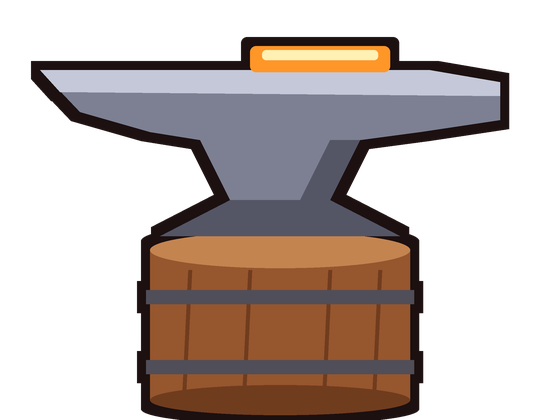
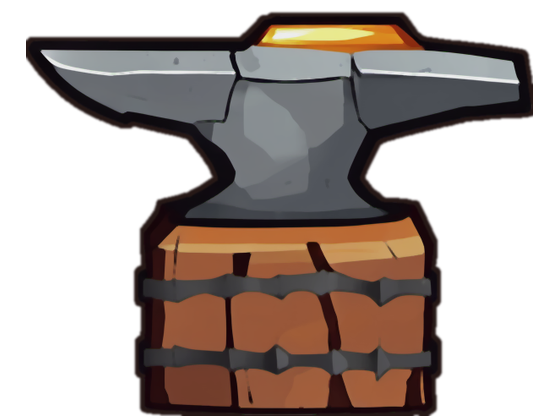
Enclume et marteau redessinés au rendu Craftpix (img2img depuis les anciens dessins)

diff --git a/Tools/make_anvil_ai.py b/Tools/make_anvil_ai.py
@@ -1,0 +1,76 @@
+# Enclume et marteau de la forge dans le style des persos Craftpix (ComfyUI + SDXL, même rendu que make_creatures.py).
+# Variantes dans _dl/anvil_raw ; --pick N et --hpick N choisissent celles gardées -> Resources/ForgeUI/Forge/anvil.png / hammer.png
+# (mêmes toiles que make_forge_flat.py : enclume 560x420, dessus de la table ~70 px du haut, pied en bas ; marteau 360x170, tête à gauche).
+import os, sys, importlib.util
+from PIL import Image
+
+HERE = os.path.dirname(os.path.abspath(__file__))
+spec = importlib.util.spec_from_file_location("mc", os.path.join(HERE, "make_creatures.py"))
+mc = importlib.util.module_from_spec(spec); spec.loader.exec_module(mc)
+RAW = os.path.join(HERE, "..", "..", "_dl", "anvil_raw")
+DENOISE = (0.72, 0.82)
+OUT = os.path.join(HERE, "..", "Assets", "Resources", "ForgeUI", "Forge")
+
+ANVIL = ("game asset of a big chunky blacksmith anvil, side view, horn pointing left, dark iron with a glowing hot orange ingot on top, "
+         "sitting on a wooden stump with iron bands, 2d mobile rpg like craftpix, thick dark outline, matte soft shading, "
+         "muted colors, simple shapes, centered, isolated on plain white background")
+HAMMER = ("game asset of a blacksmith hammer lying horizontal, heavy iron head on the left, wooden handle to the right, side view, "
+          "2d mobile rpg like craftpix, thick dark outline, matte soft shading, muted colors, simple shapes, isolated on plain white background")
+
+def gen(prompt, name, seed):
+    pid = mc.post("/prompt", {"prompt": mc.workflow(prompt, seed, "forge_" + name)})["prompt_id"]
+    while True:
+        h = mc.get("/history/" + pid)
+        if pid in h and h[pid].get("outputs"):
+            img = h[pid]["outputs"]["9"]["images"][0]
+            return os.path.join(mc.COMFY_OUT, img.get("subfolder", ""), img["filename"])
+        mc.time.sleep(1)
+
+def fit(im, W, H, margin_bottom=4):
+    bb = im.getbbox(); im = im.crop(bb)
+    k = min((W - 20) / im.width, (H - margin_bottom - 10) / im.height)
+    im = im.resize((int(im.width * k), int(im.height * k)), Image.LANCZOS)
+    out = Image.new("RGBA", (W, H), (0, 0, 0, 0))
+    out.alpha_composite(im, ((W - im.width) // 2, H - margin_bottom - im.height))
+    return out
+
+if __name__ == "__main__":
+    a = sys.argv[1:]
+    os.makedirs(RAW, exist_ok=True)
+    if "--pick" in a or "--hpick" in a:
+        if "--pick" in a:
+            fit(Image.open(os.path.join(RAW, a[a.index("--pick") + 1] + ".png")), 560, 420).save(os.path.join(OUT, "anvil.png"))
+        if "--hpick" in a:
+            fit(Image.open(os.path.join(RAW, a[a.index("--hpick") + 1] + ".png")), 360, 170, 3).save(os.path.join(OUT, "hammer.png"))
+        sys.exit(0)
+    if "--i2i" in a:
+        # img2img depuis les dessins de make_forge_flat.py (forme gardée, rendu Craftpix)
+        src = {"anvil": os.path.join(RAW, "src_anvil.png"), "hammer": os.path.join(RAW, "src_hammer.png")}
+        for kind, png in (("anvil", "anvil.png"), ("hammer", "hammer.png")):
+            if not os.path.exists(src[kind]):
+                Image.open(os.path.join(OUT, png)).save(src[kind])
+            im = Image.open(src[kind]).convert("RGBA")
+            bg = Image.new("RGBA", (1024, 1024), (255, 255, 255, 255))
+            k = 900 / max(im.size); im2 = im.resize((int(im.width * k), int(im.height * k)), Image.LANCZOS)
+            bg.alpha_composite(im2, ((1024 - im2.width) // 2, (1024 - im2.height) // 2))
+            fn = "forge_%s_src.png" % kind
+            bg.convert("RGB").save(os.path.join(mc.COMFY_IN, fn))
+            for v in range(4):
+                for dn in DENOISE:
+                    prompt = (ANVIL if kind == "anvil" else HAMMER)
+                    pid = mc.post("/prompt", {"prompt": mc.workflow_i2i(fn, prompt, 6100 + v * 331, "forge_i2i_%s" % kind, dn)})["prompt_id"]
+                    while True:
+                        h = mc.get("/history/" + pid)
+                        if pid in h and h[pid].get("outputs"):
+                            img = h[pid]["outputs"]["9"]["images"][0]
+                            out = os.path.join(mc.COMFY_OUT, img.get("subfolder", ""), img["filename"]); break
+                        mc.time.sleep(1)
+                    mc.craftpix_look(mc.cutout(out, 600)).save(os.path.join(RAW, "%s_i%d_%d.png" % (kind, v, int(dn * 100))))
+                    print("ok", kind, v, dn, flush=True)
+        sys.exit(0)
+    for v in range(6):
+        for kind, prompt in (("anvil", ANVIL), ("hammer", HAMMER)):
+            f = os.path.join(RAW, "%s_%d.png" % (kind, v))
+            if os.path.exists(f): continue
+            mc.craftpix_look(mc.cutout(gen(prompt, kind, 4100 + v * 977), 600)).save(f)
+            print("ok", kind, v, flush=True)

diff --git a/CLAUDE.md b/CLAUDE.md
@@ -75,6 +75,7 @@ Décor du chemin en KayKit Dungeon Remastered, icônes 2D peintes (packs payants
 - Pilotage de l'éditeur sans écran (Assets/Editor/ForgeRemote.cs) : fichiers dans _dl : refresh_request (recompile), play_request, stop_request. Tools/remote_shots.sh enchaîne arrêt + recompilation + Play + commandes/captures (ex. `bash Tools/remote_shots.sh open:shop shot:nom`). Commande de test « open:<écran> » (shop, hero, skills, pets, mounts, dungeons, missions, tech, pass, odds, home). Unity peut être lancé par la ligne de commande (Unity.exe 6000.3.17f1 -projectPath) ; plus besoin de computer-use pour compiler/tester.
 - Combat façon Forge Master (BattleDecor.cs) : si Resources/ForgeUI/Battle existe (généré par Tools/make_battle_decor.py, dans le dépôt), vue plongeante (CamPitch 52°, caméra hero.X+2.6 / 13,5 / -10,15), sol plat répétable (route z ±1,8, rivière de lave/sang/glace ou flaques), éléments en sprites (arbre mort, rocher, crâne, os, tombe, brasero, cristal, pics, touffe) placés de part et d'autre de la route, une palette par cercle (missions = Fraude, donjons = DungeonDecor). Remplace les arènes peintes et le terrain 3D. Ennemis en groupes deux fois plus nombreux (waveShare : moitié des PV et du butin chacun), rangées en profondeur (Lanes), le premier revient au centre ; barres et chiffres réduits.
 - Pilotage à distance : le jeu ne tourne en Play QUE si Unity a le focus (écran verrouillé/autre fenêtre = bloqué à l'image 1, même avec runInBackground). _dl/editor_state.txt (écrit par ForgeRemote) donne playing/active/frame. Si frame n'avance pas : donner le focus à Unity (computer-use, accès au chemin complet de Unity.exe 6000.3.17f1, un clic dans l'Inspector).
+- Enclume et marteau redessinés (2026-10-18) : Tools/make_anvil_ai.py --i2i retravaille les dessins de make_forge_flat.py en img2img SDXL (denoise 0,72) au rendu Craftpix, --pick/--hpick <variante> installe (gardés : anvil_i1_72, hammer_i1_72 ; anciens dans _dl/anvil_raw/old_*). make_forge_flat.py régénère encore les anciens : ne pas le relancer sans refaire make_anvil_ai.
 - Forge plate façon Forge Master (ForgeWorld.SetupFlat, prioritaire sur SetupPainted) : si Resources/ForgeUI/Forge/{forge_bg,anvil,hammer}.png existent (Tools/make_forge_flat.py, dans le dépôt), toute la scène 3D de la forge est masquée ; fond plat (mur de briques, fournaise en arche, torches, râtelier, sol en dalles) plein cadre, enclume en sprite calée sur AnvilTop, marteau en sprite enfant de hammerPivot (mêmes animations, angle de repos restA = -22°), champ de vision 37° au repos.
 - Icônes des pièces plates et MODÈLES de pièces façon FM (Tools/make_item_icons.py -> Resources/ForgeUI/Items/s<emplacement>_c<cercle>_v<modèle>.png, 290 icônes, + Assets/Scripts/Forge/ItemModels.cs GÉNÉRÉ, dans le dépôt) : comme les âges de FM, chaque cercle a ses propres modèles tirés d'un catalogue (18 armes, 12 heaumes, 7 boucliers, 6 gantelets, 6 bottes, 7 ceintures, 7 amulettes, 6 anneaux ; SETS dans le script), ses matériaux (MAT) et son motif (cordes/os, cœurs, bave, pièces, flammes, feu violet, épines, yeux, glace, ailes). 6 armes, 5 heaumes, 3 modèles ailleurs par cercle. Item.model tiré à la forge, nom = GameState.ModelName(slot, circle, model) + suffixe du cercle. Armes dessinées poignée en (128,199) puis tournées de 45° (prise commune pour PaperHero). ItemIcons.Get(item)/ItemSprite/Flat(slot, circle, model). Dans FM : 5-8 armes (mêlée + distance) et 4-7 casques par âge, 2 modèles ailleurs, + 27 ensembles de skins cosmétiques (SkinsLibrary/SetsLibrary).
 - Héros en pièces détachées (PaperHero.cs, Tools/make_paper_hero.py -> Resources/ForgeUI/Hero, dans le dépôt) : chibi façon FM (tête, cheveux, torse en tonneau, bras à main ronde, jambes ; articulation au centre de chaque image, 400 px = 1 unité), animé par code dans SpriteChar (nom SpriteChar.PaperName). Équipement PORTÉ dessiné pour lui, un fichier par cercle et modèle (mêmes SETS/MAT que make_item_icons, importés) : helm_c<c>_v<m> (toile 360x600, tête décalée de +40,+80, trous transparents pour le visage), glove_ (toile du bras), boot_ (toile de la jambe), belt_ (toile du torse). Arme et bouclier = icônes des pièces (prise de l'arme en (81/256, 0,316), à 0,18 sous l'épaule). SetGear(arme, heaume, bouclier, gants, bottes, ceinture) appelé par BattleWorld. Taille 1,8. SaveData.heroSkin : 0 = chevalier (défaut), 1 = Valkyrie Craftpix ; bouton « Héros : … » dans la fiche Héros (BattleWorld.RespawnHero).
